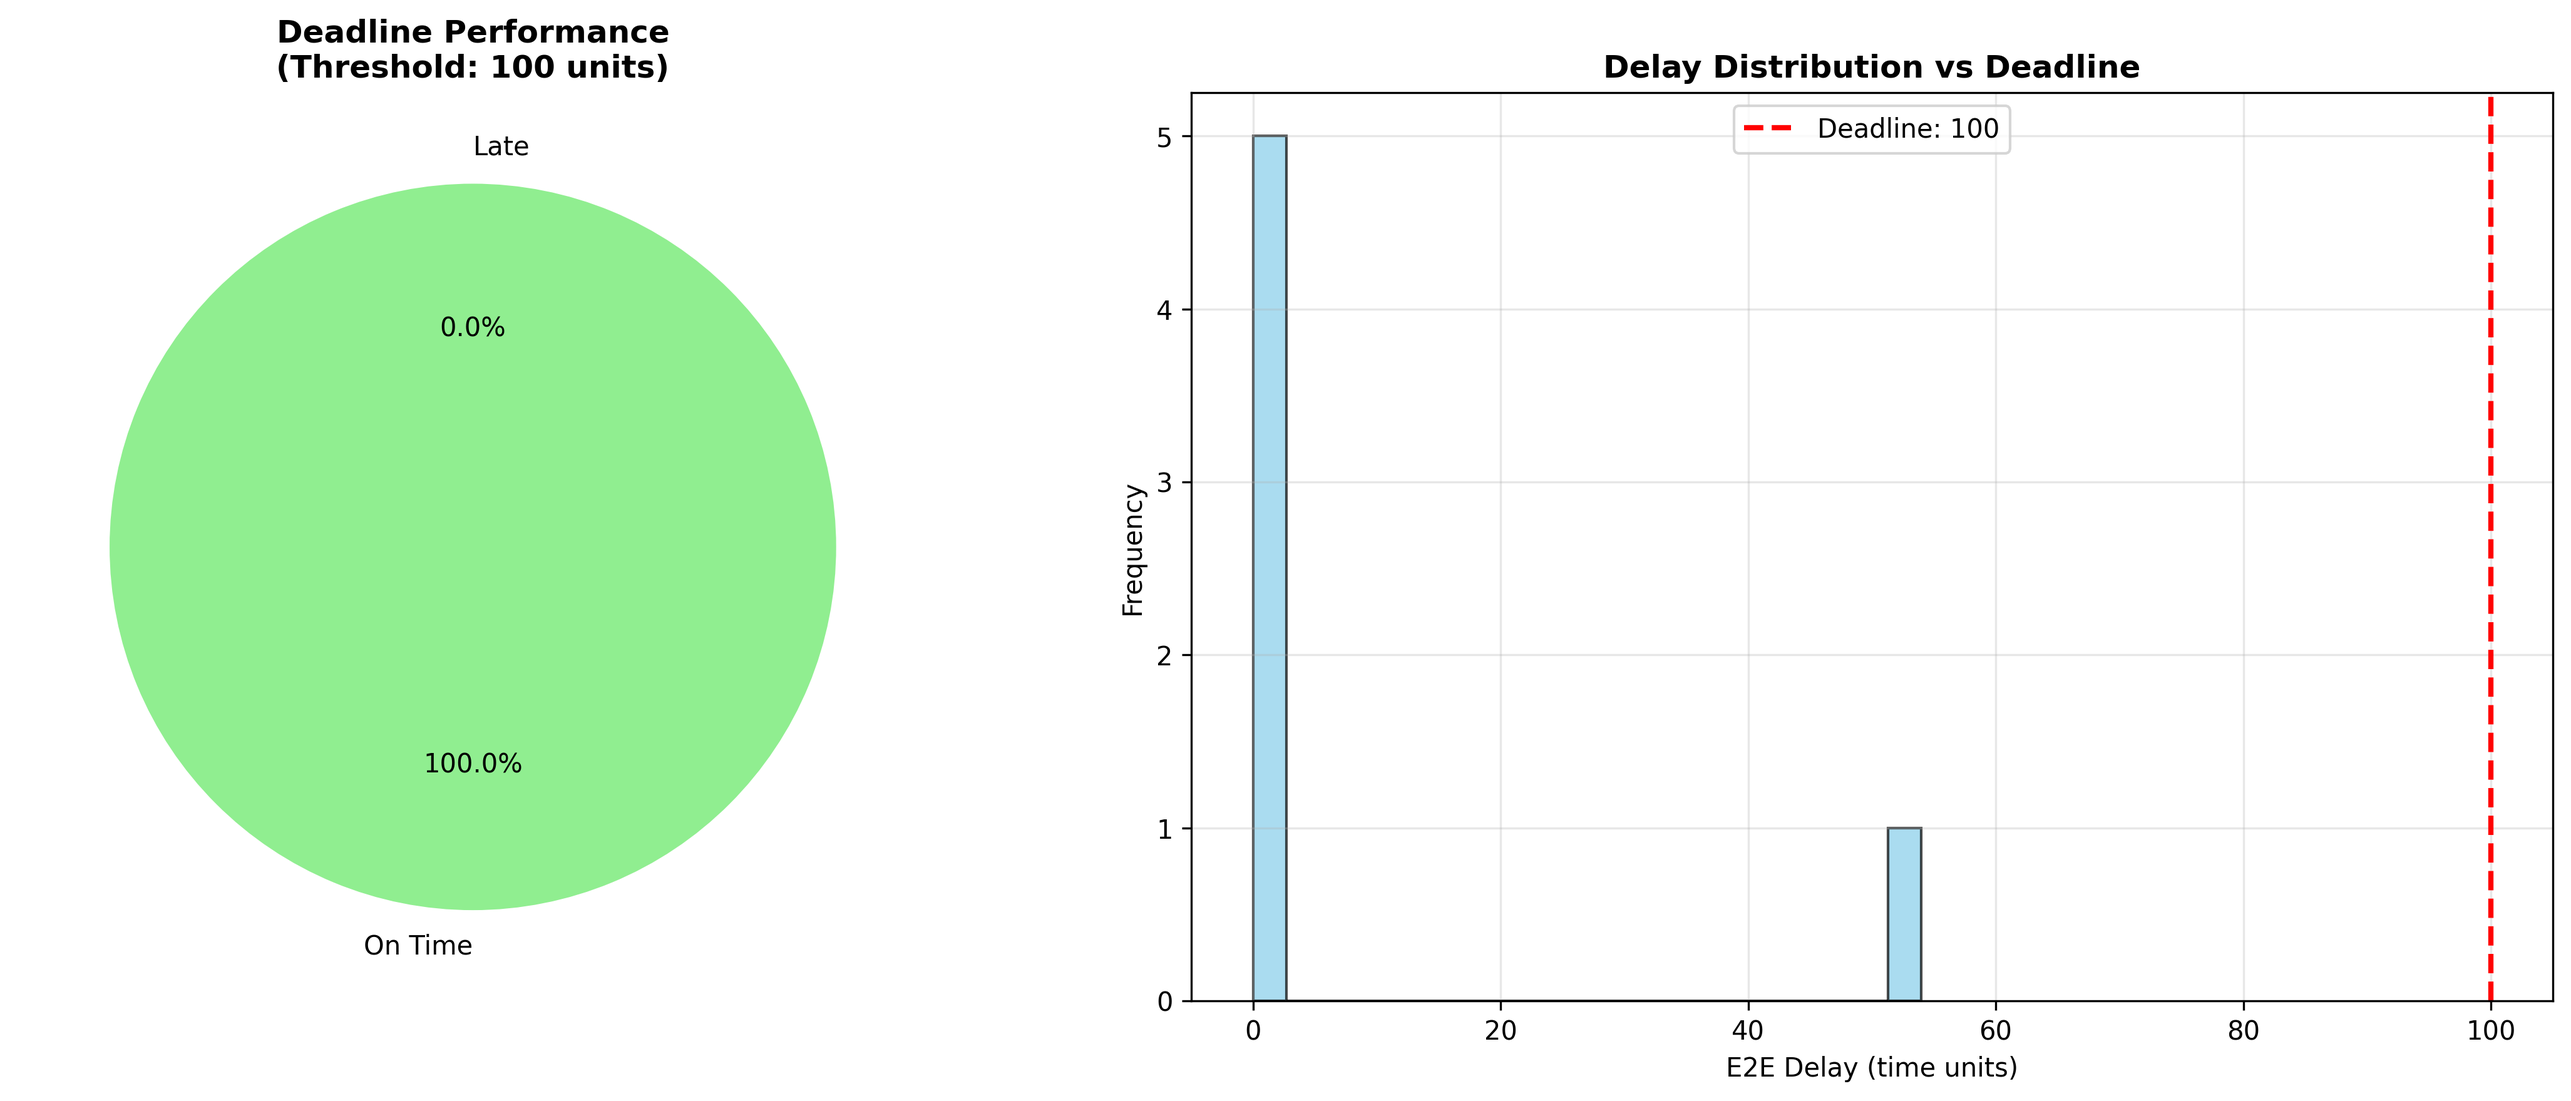
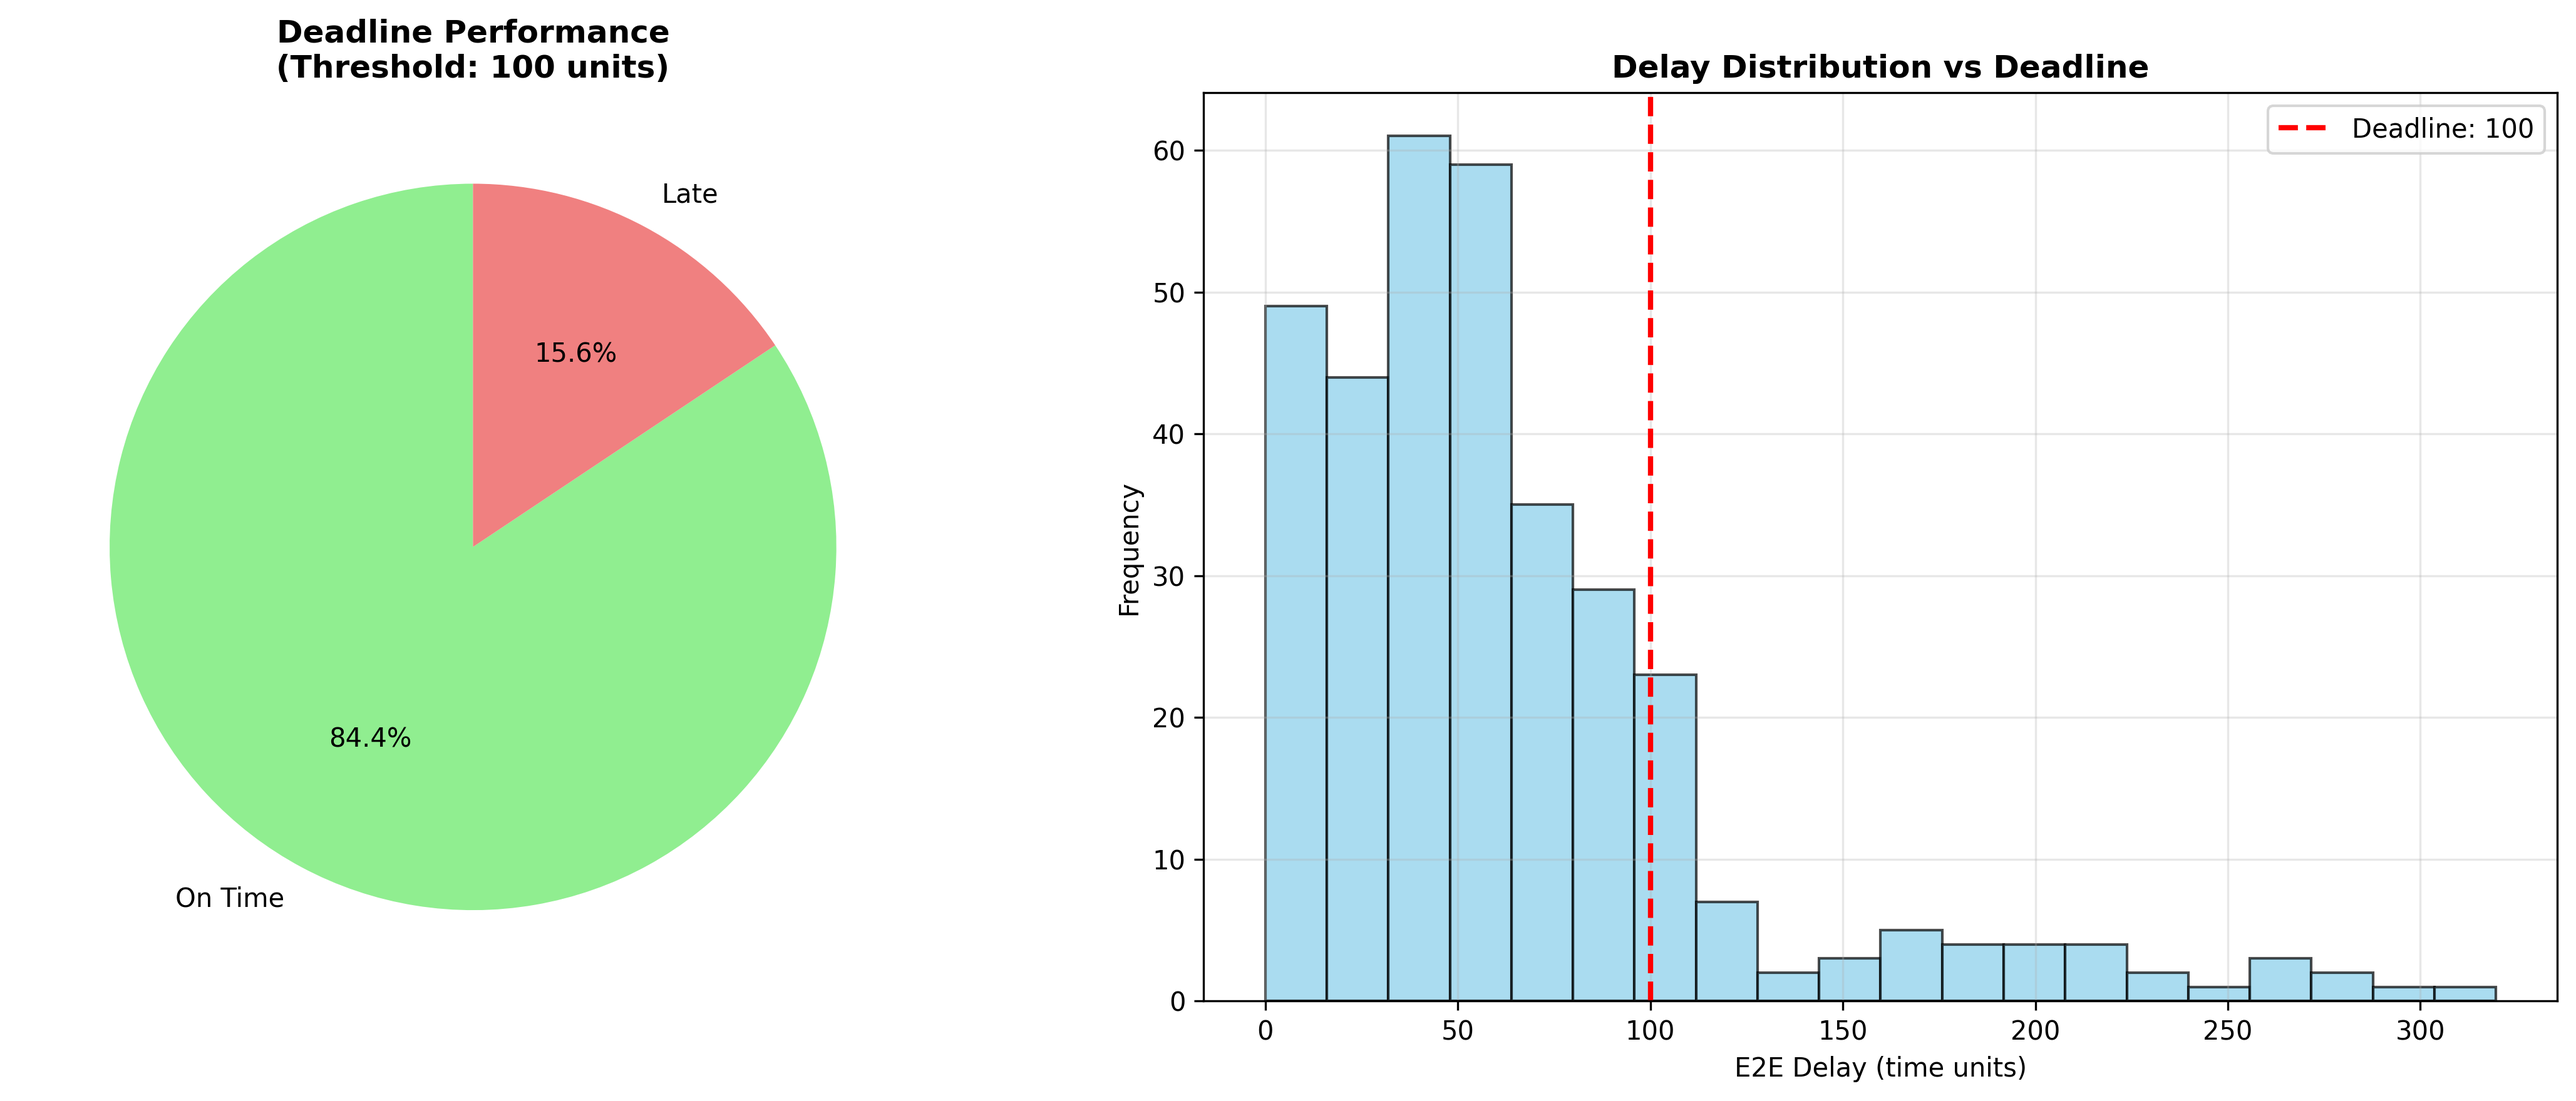
Service Placement with GA

diff --git a/src/plot_evaluation.py b/src/plot_evaluation.py
@@ -9,9 +9,9 @@ from collections import defaultdict
 def load_experiment_data(results_path):
     """Load hasil eksperimen dari CSV files"""
     # Load main results
-    results_file = os.path.join(results_path, "Results_100_0.csv")
-    link_file = os.path.join(results_path, "Results_100_0_link.csv")
-    
+    results_file = os.path.join(results_path, "Results_1000_0.csv")
+    link_file = os.path.join(results_path, "Results_1000_0_link.csv")
+
     if os.path.exists(results_file):
         df_results = pd.read_csv(results_file)
     else:
@@ -366,7 +366,7 @@ def main():
     """Main evaluation function"""
     # Setup
     plt.style.use('default')  # Use default style instead of seaborn
-    results_path = "data/results_20250626"
+    results_path = "data/results_20250629"  # Updated to current date
     plots_path = "Hasil/result"
     os.makedirs(plots_path, exist_ok=True)
     

diff --git a/src/comparison_analysis.py b/src/comparison_analysis.py
@@ -8,9 +8,9 @@ def compare_ga_vs_baseline():
     """Compare GA results with baseline allocation methods"""
     
     # Load GA results
-    ga_results_path = "data/results_20250626"
-    ga_results = pd.read_csv(os.path.join(ga_results_path, "Results_100_0.csv"))
-    ga_links = pd.read_csv(os.path.join(ga_results_path, "Results_100_0_link.csv"))
+    ga_results_path = "data/results_20250629"
+    ga_results = pd.read_csv(os.path.join(ga_results_path, "Results_1000_0.csv"))
+    ga_links = pd.read_csv(os.path.join(ga_results_path, "Results_1000_0_link.csv"))
     
     # Load allocation info
     with open('data/allocDefinitionGA.json', 'r') as f:

diff --git a/src/create_dashboard.py b/src/create_dashboard.py
@@ -9,9 +9,9 @@ def create_evaluation_dashboard():
     """Create a comprehensive evaluation dashboard"""
     
     # Load experimental data
-    results_path = "data/results_20250626"
-    df_results = pd.read_csv(os.path.join(results_path, "Results_100_0.csv"))
-    df_links = pd.read_csv(os.path.join(results_path, "Results_100_0_link.csv"))
+    results_path = "data/results_20250629"
+    df_results = pd.read_csv(os.path.join(results_path, "Results_1000_0.csv"))
+    df_links = pd.read_csv(os.path.join(results_path, "Results_1000_0_link.csv"))
     
     # Create the dashboard
     fig = plt.figure(figsize=(20, 12))
